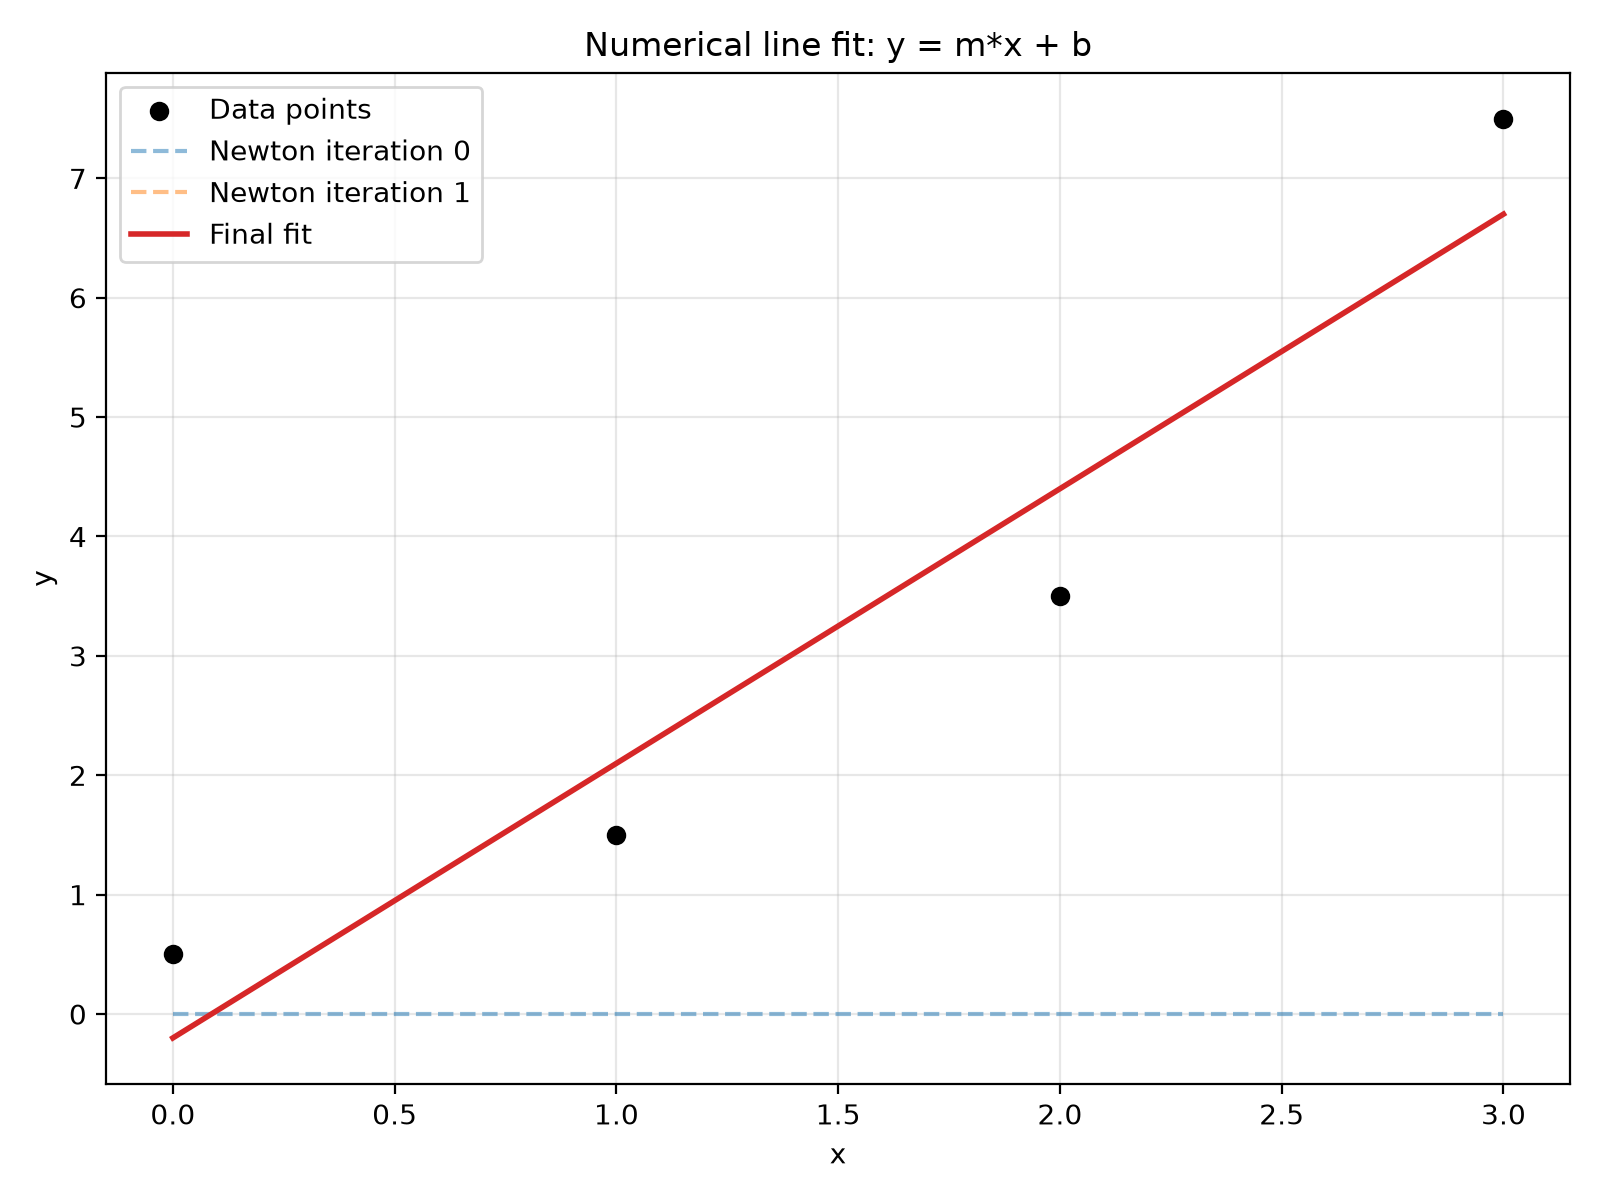
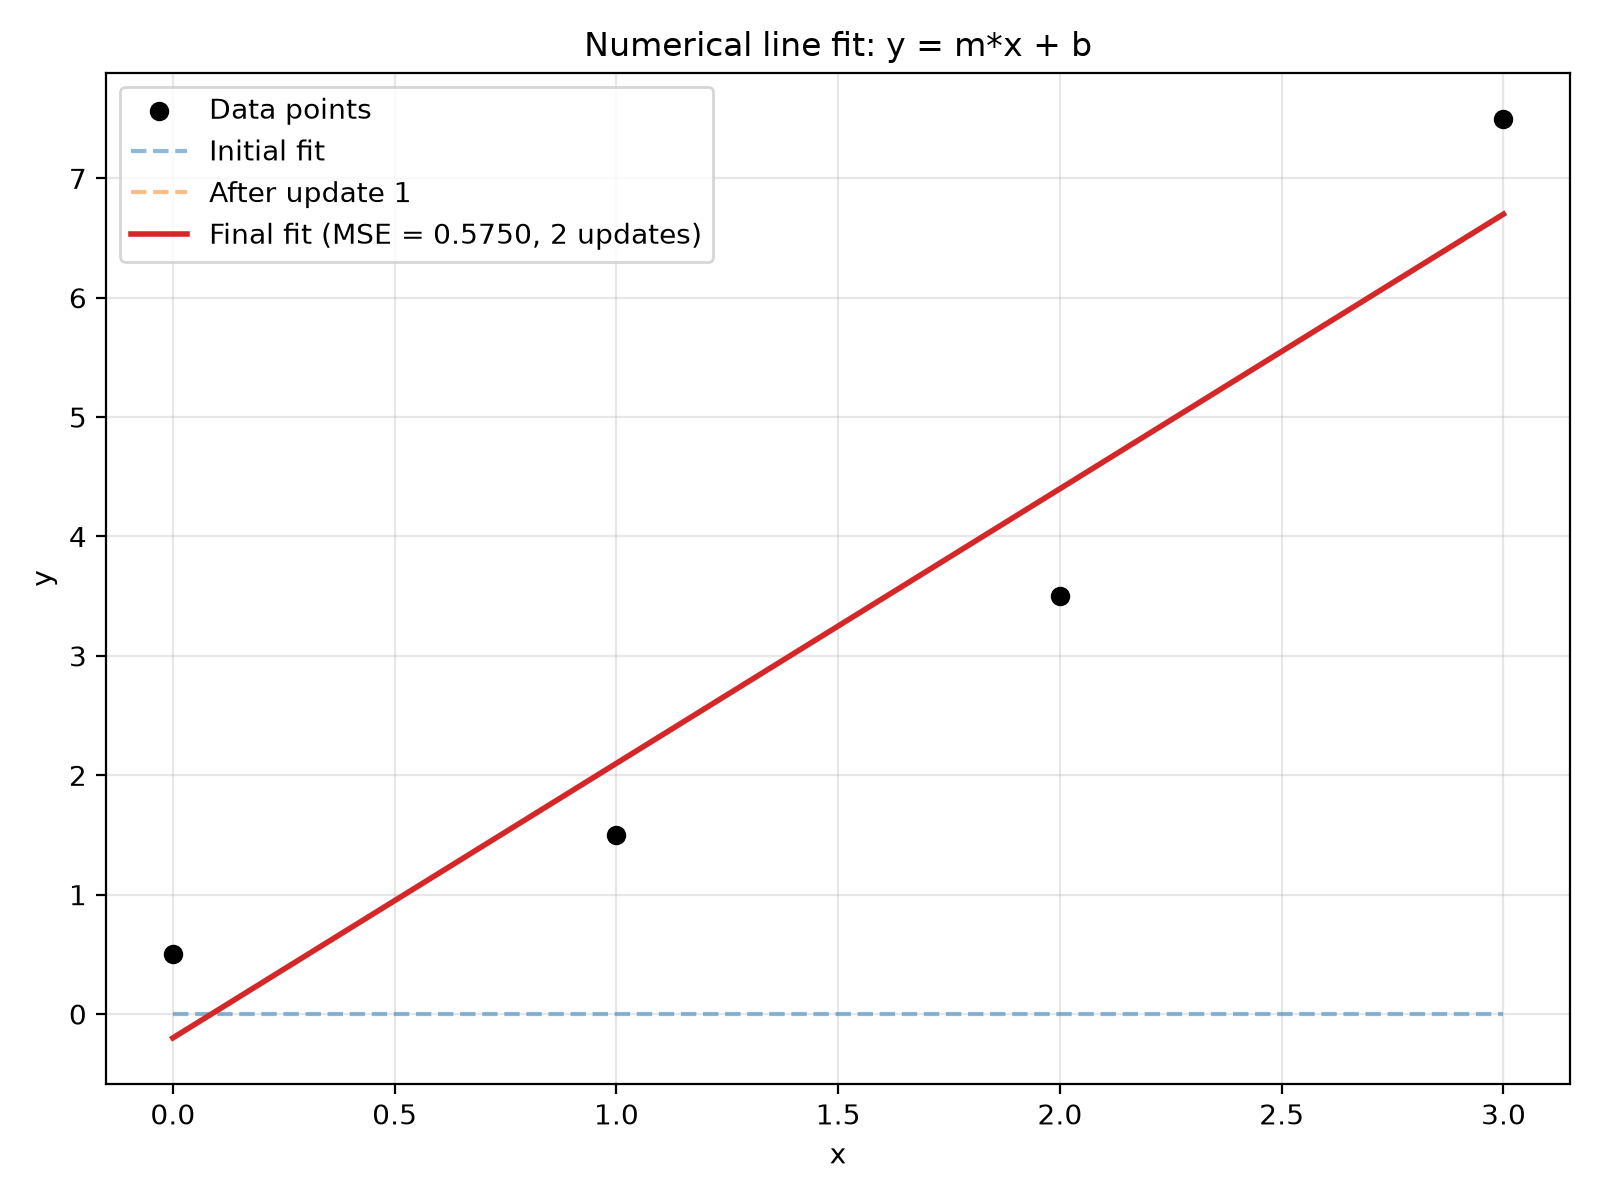
plot update again

Changed region(s): [[0.125, 0.0925, 0.4375, 0.2158]]

diff --git a/1/index1.html b/1/index1.html
@@ -114,60 +114,87 @@
         </tbody>
     </table>
 
+    <h4>Parabola: Point (0, 0)</h4>
     <div class="plot-group">
         <figure>
-            <figcaption>Parabola: Newton-Raphson</figcaption>
-            <img
-                class="plot"
-                src="./media/parabola-newton.png"
-                alt="Newton-Raphson iterations for the parabola"
-            >
+            <figcaption>Newton-Raphson</figcaption>
+            <img class="plot" src="./media/parabola-point-1-newton.png" alt="Newton-Raphson iterations for the parabola from point (0, 0)">
         </figure>
         <figure>
-            <figcaption>Parabola: Golden-Section Search</figcaption>
-            <img
-                class="plot"
-                src="./media/parabola-golden-section.png"
-                alt="Golden-section iterations for the parabola"
-            >
+            <figcaption>Golden-Section Search</figcaption>
+            <img class="plot" src="./media/parabola-point-1-golden-section.png" alt="Golden-section iterations for the parabola from point (0, 0)">
         </figure>
     </div>
 
+    <h4>Parabola: Point (-4, 0)</h4>
     <div class="plot-group">
         <figure>
-            <figcaption>Exponential Function: Newton-Raphson</figcaption>
-            <img
-                class="plot"
-                src="./media/exponential-newton.png"
-                alt="Newton-Raphson iterations for the exponential function"
-            >
+            <figcaption>Newton-Raphson</figcaption>
+            <img class="plot" src="./media/parabola-point-2-newton.png" alt="Newton-Raphson iterations for the parabola from point (-4, 0)">
         </figure>
         <figure>
-            <figcaption>Exponential Function: Golden-Section Search</figcaption>
-            <img
-                class="plot"
-                src="./media/exponential-golden-section.png"
-                alt="Golden-section iterations for the exponential function"
-            >
+            <figcaption>Golden-Section Search</figcaption>
+            <img class="plot" src="./media/parabola-point-2-golden-section.png" alt="Golden-section iterations for the parabola from point (-4, 0)">
         </figure>
     </div>
 
+    <h4>Parabola: Point (-8, 0)</h4>
     <div class="plot-group">
         <figure>
-            <figcaption>Logarithmic Function: Newton-Raphson</figcaption>
-            <img
-                class="plot"
-                src="./media/logarithmic-newton.png"
-                alt="Newton-Raphson iterations for the logarithmic function"
-            >
+            <figcaption>Newton-Raphson</figcaption>
+            <img class="plot" src="./media/parabola-point-3-newton.png" alt="Newton-Raphson iterations for the parabola from point (-8, 0)">
         </figure>
         <figure>
-            <figcaption>Logarithmic Function: Golden-Section Search</figcaption>
-            <img
-                class="plot"
-                src="./media/logarithmic-golden-section.png"
-                alt="Golden-section iterations for the logarithmic function"
-            >
+            <figcaption>Golden-Section Search</figcaption>
+            <img class="plot" src="./media/parabola-point-3-golden-section.png" alt="Golden-section iterations for the parabola from point (-8, 0)">
+        </figure>
+    </div>
+
+    <h4>Parabola: Point (2, 0)</h4>
+    <div class="plot-group">
+        <figure>
+            <figcaption>Newton-Raphson</figcaption>
+            <img class="plot" src="./media/parabola-point-4-newton.png" alt="Newton-Raphson iterations for the parabola from point (2, 0)">
+        </figure>
+        <figure>
+            <figcaption>Golden-Section Search</figcaption>
+            <img class="plot" src="./media/parabola-point-4-golden-section.png" alt="Golden-section iterations for the parabola from point (2, 0)">
+        </figure>
+    </div>
+
+    <h4>Parabola: Point (6, 0)</h4>
+    <div class="plot-group">
+        <figure>
+            <figcaption>Newton-Raphson</figcaption>
+            <img class="plot" src="./media/parabola-point-5-newton.png" alt="Newton-Raphson iterations for the parabola from point (6, 0)">
+        </figure>
+        <figure>
+            <figcaption>Golden-Section Search</figcaption>
+            <img class="plot" src="./media/parabola-point-5-golden-section.png" alt="Golden-section iterations for the parabola from point (6, 0)">
+        </figure>
+    </div>
+
+    <h4>Exponential Function: Point (2, 0)</h4>
+    <div class="plot-group">
+        <figure>
+            <figcaption>Newton-Raphson</figcaption>
+            <img class="plot" src="./media/exponential-newton.png" alt="Newton-Raphson iterations for the exponential function from point (2, 0)">
+        </figure>
+        <figure>
+            <figcaption>Golden-Section Search</figcaption>
+            <img class="plot" src="./media/exponential-golden-section.png" alt="Golden-section iterations for the exponential function from point (2, 0)">
+        </figure>
+    </div>
+
+    <h4>Logarithmic Function: Point (2, 0)</h4>
+    <div class="plot-group">
+        <figure>
+            <figcaption>Newton-Raphson</figcaption>
+            <img class="plot" src="./media/logarithmic-newton.png" alt="Newton-Raphson iterations for the logarithmic function from point (2, 0)">
+        </figure>
+        <figure>
+            <figcaption>Golden-Section Search</figcaption>
+            <img class="plot" src="./media/logarithmic-golden-section.png" alt="Golden-section iterations for the logarithmic function from point (2, 0)">
         </figure>
     </div>
 
@@ -272,19 +299,16 @@
         </tbody>
     </table>
 
-    <h4>Line Fit</h4>
-    <img
-        class="plot"
-        src="./media/part2-line-fit.png"
-        alt="Line fitted to the data points with Newton-Raphson steps"
-    >
-
-    <h4>Parabola Fit</h4>
-    <img
-        class="plot"
-        src="./media/part2-parabola-fit.png"
-        alt="Parabola fitted to the data points with Newton-Raphson steps"
-    >
+    <div class="plot-group">
+        <figure>
+            <figcaption>Line Fit: Newton-Raphson Updates</figcaption>
+            <img class="plot" src="./media/part2-line-fit.png" alt="Line fit with Newton-Raphson updates and detailed legend">
+        </figure>
+        <figure>
+            <figcaption>Parabola Fit: Newton-Raphson Updates</figcaption>
+            <img class="plot" src="./media/part2-parabola-fit.png" alt="Parabola fit with Newton-Raphson updates and detailed legend">
+        </figure>
+    </div>
 
     <p>
         The complete Part 2 Python source code is available here:

diff --git a/1/part2.py b/1/part2.py
@@ -183,6 +183,8 @@ def fit_parabola_newton():
 
 def plot_line_fit(m, b, iterations, filename):
     x_values = [index / 20 for index in range(61)]
+    update_count = len(iterations) - 1
+    final_mse = line_mse(m, b)
 
     plt.figure(figsize=(8, 6))
     plt.scatter(
@@ -195,16 +197,23 @@ def plot_line_fit(m, b, iterations, filename):
 
     for index, (iteration_m, iteration_b) in enumerate(iterations[:-1]):
         y_values = [line(x, iteration_m, iteration_b) for x in x_values]
+        label = "Initial fit" if index == 0 else f"After update {index}"
         plt.plot(
             x_values,
             y_values,
             "--",
             alpha=0.5,
-            label=f"Newton iteration {index}",
+            label=label,
         )
 
     final_y_values = [line(x, m, b) for x in x_values]
-    plt.plot(x_values, final_y_values, color="tab:red", linewidth=2, label="Final fit")
+    plt.plot(
+        x_values,
+        final_y_values,
+        color="tab:red",
+        linewidth=2,
+        label=f"Final fit (MSE = {final_mse:.4f}, {update_count} updates)",
+    )
     plt.xlabel("x")
     plt.ylabel("y")
     plt.title("Numerical line fit: y = m*x + b")
@@ -217,6 +226,8 @@ def plot_line_fit(m, b, iterations, filename):
 
 def plot_parabola_fit(a, b, c, iterations, filename):
     x_values = [index / 20 for index in range(61)]
+    update_count = len(iterations) - 1
+    final_mse = parabola_mse(a, b, c)
 
     plt.figure(figsize=(8, 6))
     plt.scatter(
@@ -232,16 +243,23 @@ def plot_parabola_fit(a, b, c, iterations, filename):
             parabola(x, iteration_a, iteration_b, iteration_c)
             for x in x_values
         ]
+        label = "Initial fit" if index == 0 else f"After update {index}"
         plt.plot(
             x_values,
             y_values,
             "--",
             alpha=0.5,
-            label=f"Newton iteration {index}",
+            label=label,
         )
 
     final_y_values = [parabola(x, a, b, c) for x in x_values]
-    plt.plot(x_values, final_y_values, color="tab:red", linewidth=2, label="Final fit")
+    plt.plot(
+        x_values,
+        final_y_values,
+        color="tab:red",
+        linewidth=2,
+        label=f"Final fit (MSE = {final_mse:.4f}, {update_count} updates)",
+    )
     plt.xlabel("x")
     plt.ylabel("y")
     plt.title("Numerical parabola fit: y = a*x^2 + b*x + c")

diff --git a/1/part1.py b/1/part1.py
@@ -269,11 +269,11 @@ def main():
     points = [(0, 0), (-4, 0), (-8, 0), (2, 0), (6, 0)]
     print("PART 1: y = x^2 + 5\n")
 
-    for point in points:
+    for point_index, point in enumerate(points, start=1):
         run_case(
             "y = x^2 + 5", parabola, parabola_derivative,
             parabola_second_derivative, point, 0.0, (-10, 10), (-10, 10),
-            plot_name="parabola", make_plots=point == (-4, 0)
+            plot_name=f"parabola-point-{point_index}", make_plots=True
         )
 
     # The positive interval for log(x) keeps every evaluation in its domain.
